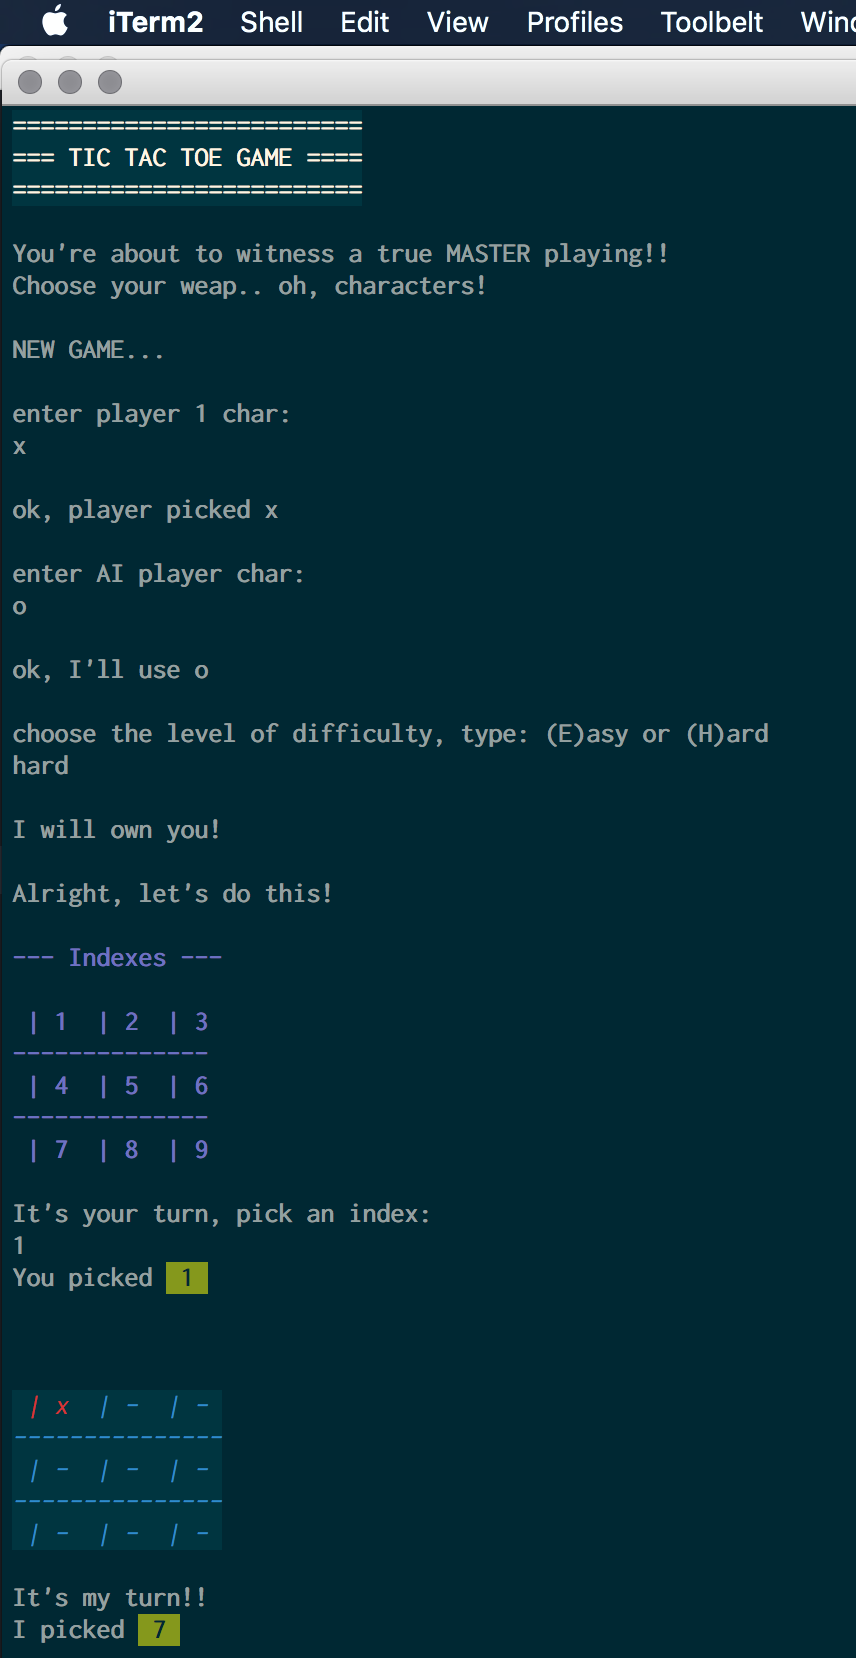
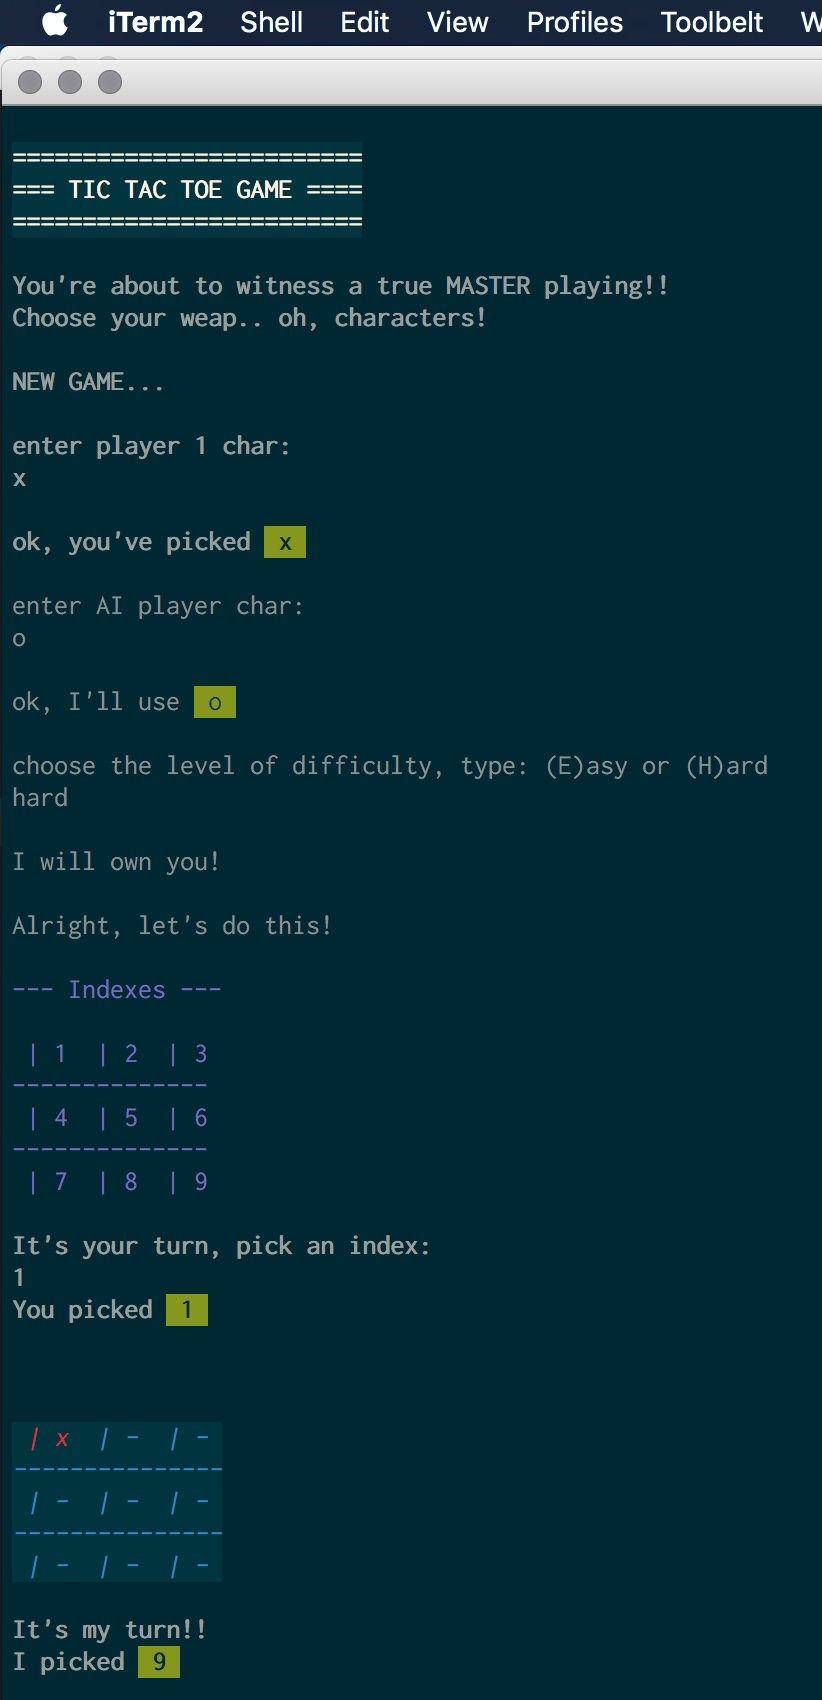
fixing tictactoe

diff --git a/other_challenges/tic_tac_toe.py b/other_challenges/tic_tac_toe.py
@@ -229,11 +229,11 @@ while (playing):
 
     print("enter player 1 char:")
     player1 = Helper.validate_input(input(), None)
-    print("\nok, player picked", player1, "\n")
+    print("\nok, you've picked \x1b[6;30;42m", player1, "\x1b[0m\n")
 
     print("enter AI player char:")
     player2 = Helper.validate_input(input(), player1)
-    print("\nok, I'll use", player2, "\n")
+    print("\nok, I'll use \x1b[6;30;42m", player2, "\x1b[0m\n")
 
     curr_game = TicTacToe(player1, player2)
 
